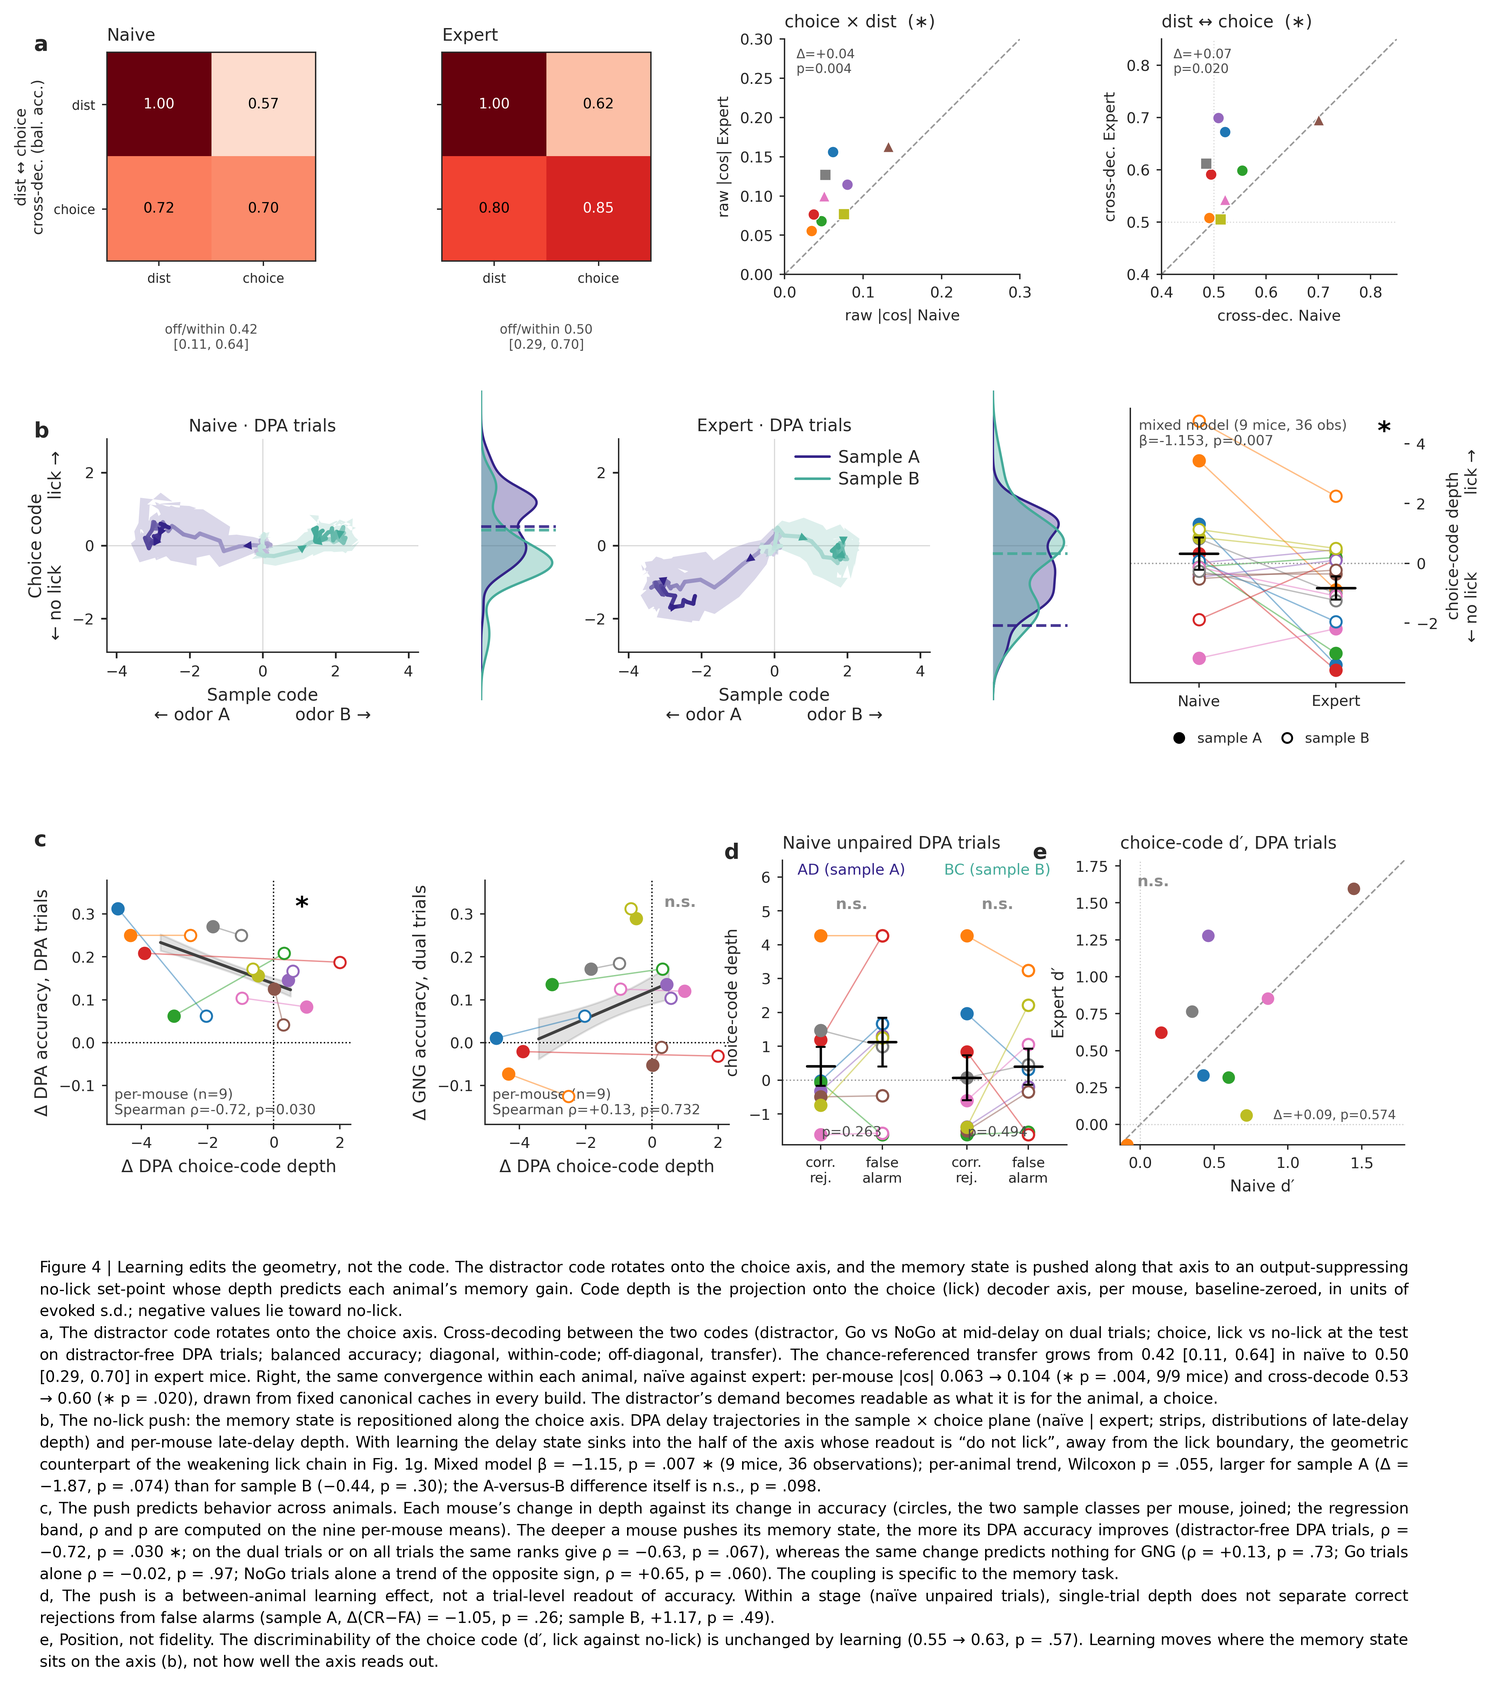
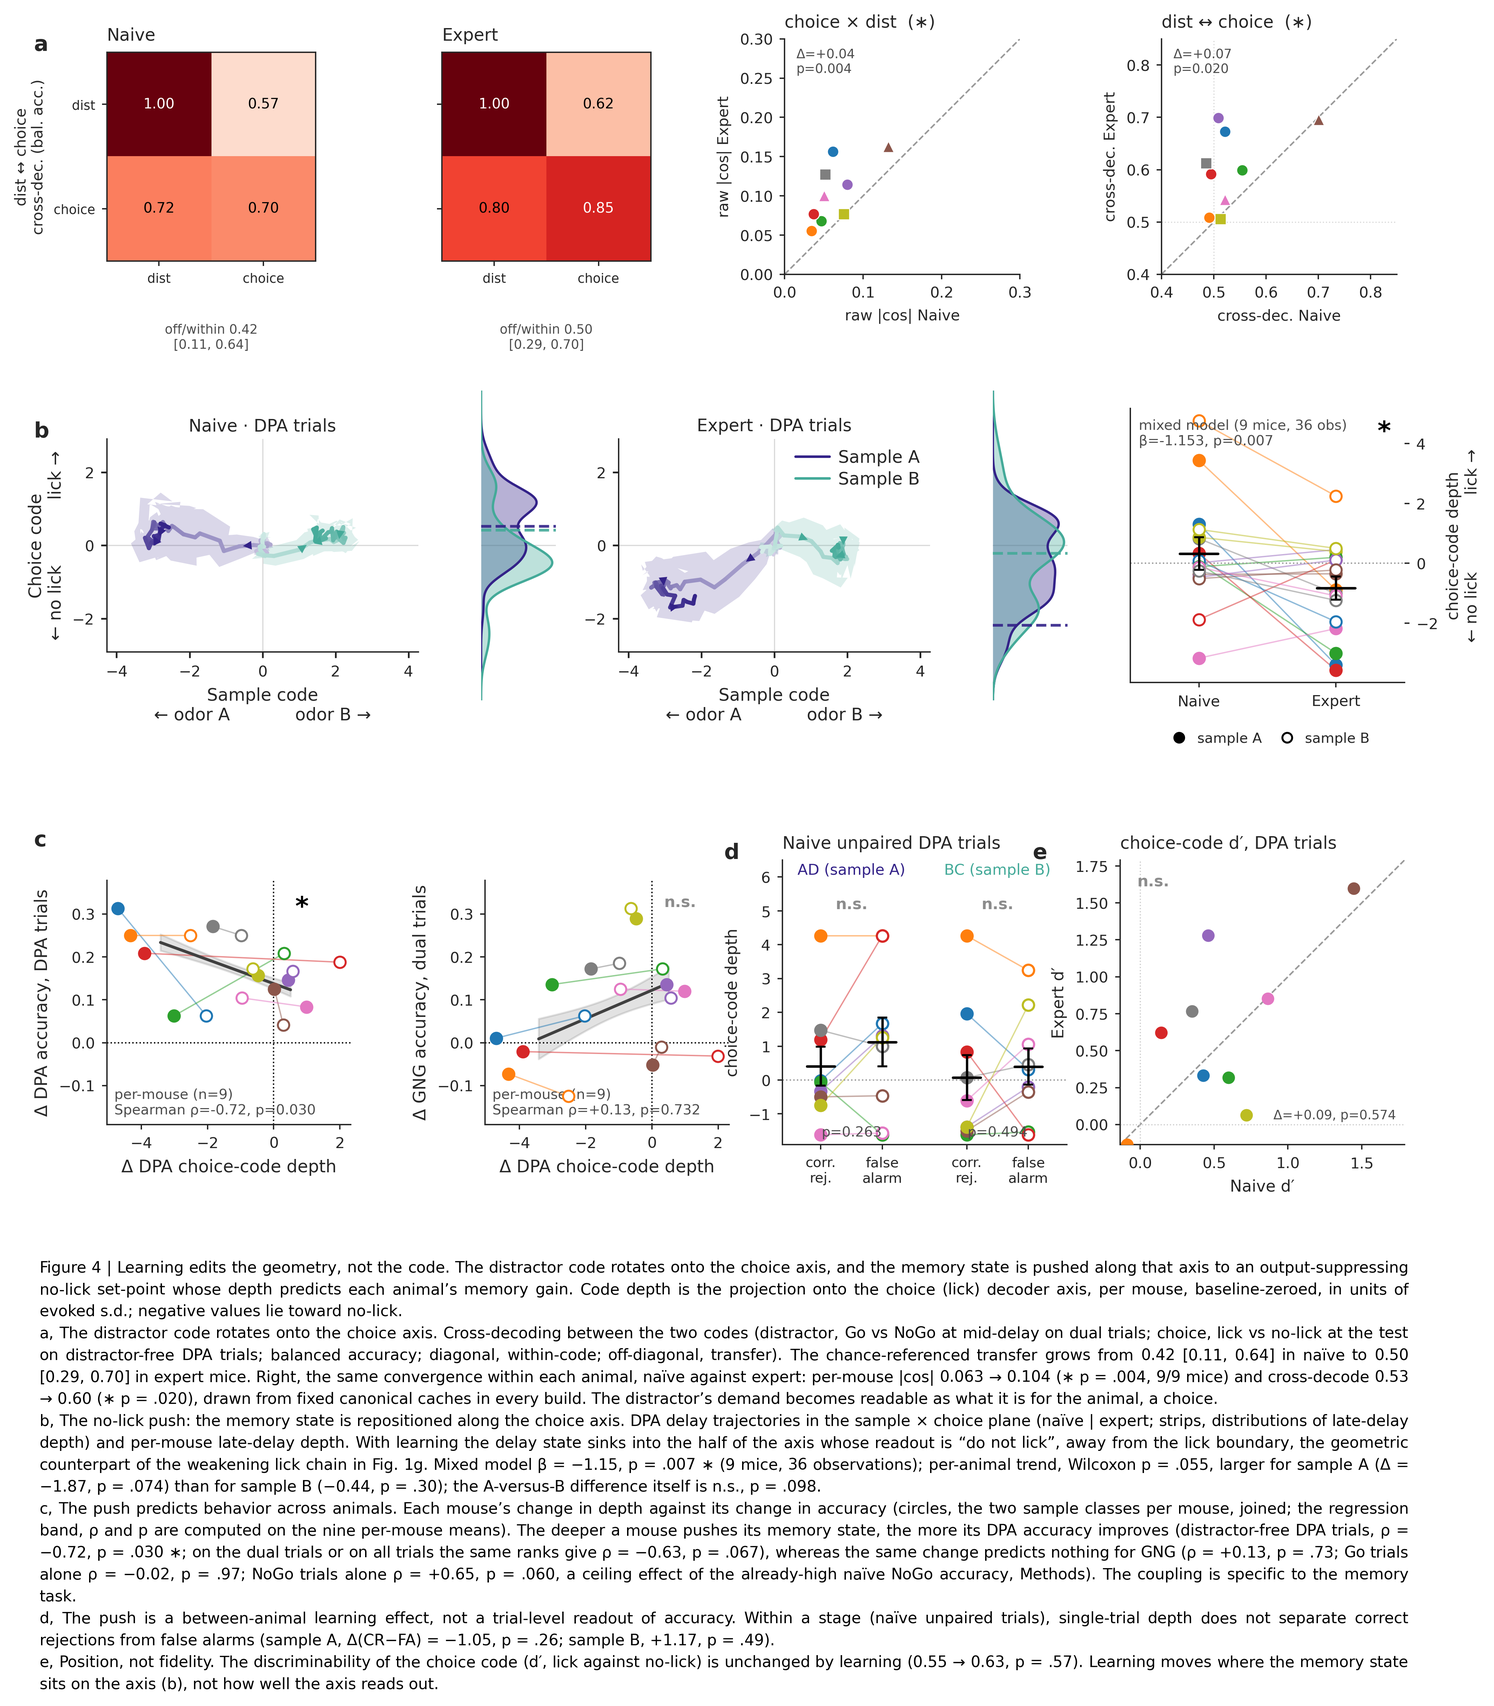
NoGo arm of the push coupling is a ceiling effect, not a cost; draft v12.24
Leon expected deeper push -> better NoGo accuracy. The raw dNoGo-vs-ddepth trend (rho +0.65, p .060)
is carried by the four deepest pushers already withholding on 82-95% of naive NoGo trials: naive NoGo
accuracy predicts the NoGo gain (rho -0.87, p .002), the partial rank correlation of the push with the
NoGo gain controlling for it is +0.27 (p .49), and depth and NoGo accuracy are unrelated at either
stage. New overlaps/exp_push_nogo_ceiling.py (three per-mouse scatters, gallery controls/). Section 4,
the Fig 4c legend and Methods now say so; the "possible cost, cannot be settled" wording is gone.
Docs, memory and share pages updated.

Claude-Session: https://claude.ai/code/session_01PzGzWMKHPqqyp4poHedntF

diff --git a/overlaps/exp_push_nogo_ceiling.py b/overlaps/exp_push_nogo_ceiling.py
@@ -1,0 +1,66 @@
+"""exp_push_nogo_ceiling.py — ΔNoGo accuracy against the no-lick push (Leon, 2026-09-09: "delta nogo vs delta depth").
+Three per-mouse scatters (n = 9): (a) ΔNoGo accuracy vs Δdepth (the +0.6 'opposite-sign' trend of Fig 4c's NoGo arm);
+(b) ΔNoGo vs NAIVE NoGo accuracy (the ceiling: mice already withholding well cannot gain); (c) Δdepth vs naive NoGo
+accuracy (the deep pushers are the good naive withholders). Prints the partial rank correlation of Δdepth with ΔNoGo
+controlling for naive NoGo accuracy. Same estimator/units as Fig 4c (main_panels: per-mouse means, DPA delay depth).
+Run from overlaps/:  /home/leon/mambaforge/envs/dual/bin/python exp_push_nogo_ceiling.py"""
+import sys, os
+sys.path.insert(0, '/home/leon/dual/'); os.chdir('/home/leon/dual/overlaps'); sys.path.insert(0, '/home/leon/dual/overlaps')
+import numpy as np, pandas as pd
+from scipy.stats import spearmanr, pearsonr, rankdata
+import main_panels as MP
+import seaborn as sns, matplotlib.pyplot as plt
+sns.set_context('notebook'); sns.set_style('ticks')
+plt.rcParams.update({'figure.dpi': 150, 'savefig.dpi': 400, 'font.family': 'sans-serif',
+                     'font.sans-serif': ['Arial', 'Helvetica', 'DejaVu Sans'], 'axes.labelsize': 8, 'axes.titlesize': 8,
+                     'xtick.labelsize': 7, 'ytick.labelsize': 7, 'legend.fontsize': 6.5, 'axes.spines.top': False,
+                     'axes.spines.right': False, 'svg.fonttype': 'none', 'axes.linewidth': 0.7, 'lines.linewidth': 1.3,
+                     'xtick.major.size': 2.5, 'ytick.major.size': 2.5, 'xtick.major.width': 0.7, 'ytick.major.width': 0.7})
+TITLE_FS = 8
+MCOL = dict(zip(MP.ALL_MICE, sns.color_palette('tab10')))
+
+y = MP.y
+nogo = [t for t in y.tasks.unique() if 'nogo' in t.lower()][0]
+rows = []
+for mo in MP.ALL_MICE:
+    dd = np.nanmean([MP.delta_choice_sample[(mo, c)] for c, _ in MP.D_SAMPLE_CLASSES])
+    acc = {}
+    for st in MP.STAGES:
+        m = (y.mouse == mo) & (y.stage == st) & MP.idx_laser & MP.idx_choice & (y.tasks == nogo)
+        acc[st] = y.loc[m, 'odr_perf'].mean()
+    rows.append(dict(mouse=mo, ddepth=dd, nogo_N=acc['Naive'], nogo_E=acc['Expert'], dNoGo=acc['Expert'] - acc['Naive']))
+df = pd.DataFrame(rows)
+
+
+def partial_rank(a, b, c):
+    ra, rb, rc = rankdata(a), rankdata(b), rankdata(c)
+    ea = ra - np.polyval(np.polyfit(rc, ra, 1), rc); eb = rb - np.polyval(np.polyfit(rc, rb, 1), rc)
+    return pearsonr(ea, eb)
+
+
+fig, axes = plt.subplots(1, 3, figsize=(8.4, 2.9))
+specs = [('ddepth', 'dNoGo', 'Δ DPA choice-code depth (Exp−Naive)', 'Δ NoGo accuracy (Exp−Naive)', 'ΔNoGo vs push'),
+         ('nogo_N', 'dNoGo', 'naive NoGo accuracy', 'Δ NoGo accuracy (Exp−Naive)', 'the ceiling'),
+         ('nogo_N', 'ddepth', 'naive NoGo accuracy', 'Δ DPA choice-code depth (Exp−Naive)', 'deep pushers withheld well already')]
+for ax, (xk, yk, xl, yl, ttl) in zip(axes, specs):
+    for _, r in df.iterrows():
+        ax.scatter(r[xk], r[yk], s=34, color=MCOL[r['mouse']], edgecolors='w', linewidths=0.5, zorder=3)
+    rho, p = spearmanr(df[xk], df[yk])
+    ax.text(0.03, 0.03, f'n=9 Spearman\nρ={rho:+.2f}, p={p:.3f}', transform=ax.transAxes, va='bottom', fontsize=6.5, color='0.3')
+    ax.axhline(0, ls=':', color='k', lw=0.7)
+    if xk == 'ddepth':
+        ax.axvline(0, ls=':', color='k', lw=0.7)
+    ax.set_xlabel(xl); ax.set_ylabel(yl); ax.set_title(ttl, loc='left', fontsize=TITLE_FS)
+rp, pp = partial_rank(df.ddepth, df.dNoGo, df.nogo_N)
+fig.suptitle(f'ΔNoGo vs Δdepth is a ceiling effect: partial rank correlation Δdepth ~ ΔNoGo | naive NoGo accuracy  r={rp:+.2f}, p={pp:.2f}',
+             fontsize=8, y=1.02)
+fig.tight_layout()
+OUT = 'figures/overlaps/controls'
+os.makedirs(f'{OUT}/png', exist_ok=True); os.makedirs(f'{OUT}/svg', exist_ok=True)
+for ext in ['png', 'svg']:
+    fig.savefig(f'{OUT}/{ext}/push_nogo_ceiling.{ext}', bbox_inches='tight')
+print(df.sort_values('ddepth').round(3).to_string(index=False))
+for a, b, lab in [('ddepth', 'dNoGo', 'Δdepth vs ΔNoGo'), ('nogo_N', 'dNoGo', 'naive NoGo vs ΔNoGo'), ('nogo_N', 'ddepth', 'naive NoGo vs Δdepth')]:
+    print(f'{lab:22s} Spearman ρ={spearmanr(df[a], df[b])[0]:+.2f} p={spearmanr(df[a], df[b])[1]:.3f}')
+print(f'partial rank Δdepth ~ ΔNoGo | naive NoGo: r={rp:+.2f} p={pp:.3f}')
+print('saved', os.path.abspath(f'{OUT}/png/push_nogo_ceiling.png'))

diff --git a/overlaps/fig_overlaps_main_native.py b/overlaps/fig_overlaps_main_native.py
@@ -364,7 +364,7 @@ if __name__ == '__main__':
         'ρ and p are computed on the nine per-mouse means). The deeper a mouse pushes its memory '
         'state, the more its DPA accuracy improves (distractor-free DPA trials, ρ = −0.72, p = .030 ∗; on the dual trials '
         'or on all trials the same ranks give ρ = −0.63, p = .067), whereas the same change '
-        'predicts nothing for GNG (ρ = +0.13, p = .73; Go trials alone ρ = −0.02, p = .97; NoGo trials alone a trend of the opposite sign, ρ = +0.65, p = .060). The coupling is specific to the memory task.',
+        'predicts nothing for GNG (ρ = +0.13, p = .73; Go trials alone ρ = −0.02, p = .97; NoGo trials alone ρ = +0.65, p = .060, a ceiling effect of the already-high naïve NoGo accuracy, Methods). The coupling is specific to the memory task.',
         'd, The push is a between-animal learning effect, not a trial-level readout of accuracy. '
         'Within a stage (naïve unpaired trials), single-trial depth does not separate correct '
         'rejections from false alarms (sample A, Δ(CR−FA) = −1.05, p = .26; sample B, +1.17, p = '

diff --git a/docs/paper/results_draft.md b/docs/paper/results_draft.md
@@ -1,5 +1,7 @@
 # Compositional learning by geometric editing — main paper (draft v12)
 
+> **v12.24 (2026-09-09): NoGo ARM OF THE COUPLING = CEILING EFFECT, NOT A COST** (Leon: "I would have expected a negative correlation"). New `overlaps/exp_push_nogo_ceiling.py` (gallery controls/push_nogo_ceiling.png): the ρ = +0.65 ΔNoGo-vs-Δdepth trend is carried by the deep pushers having already withheld correctly on 82–95% of naïve NoGo trials (naïve NoGo accuracy vs ΔNoGo ρ = −0.87, p = .002; partial rank correlation of Δdepth with ΔNoGo controlling for it +0.27, p = .49; depth and NoGo accuracy unrelated at either stage, ρ +0.30 / +0.13; relative gain ρ +0.22, Δlogit +0.35). §4, the Fig. 4c legend and Methods now say so; the "possible cost, cannot be settled" wording is gone.
+
 > **v12.23 (2026-09-09): Fig. 4 TRIAL SETS LABELLED IN THE PANELS** (Leon): b "Naive/Expert · DPA trials", c "Δ DPA accuracy, DPA trials" / "Δ GNG accuracy, dual trials", d "Naive unpaired DPA trials", e "choice-code d′, DPA trials". The DPA arm of c was tried on the dual trials and on all trials (Leon's question): identical ranks, ρ = −0.63, p = .067 in both, against −0.72 / .030 on the distractor-free trials; Leon kept the DPA trials and the companion numbers are now stated in §4 and the legend (`--dualperf` draws the dual-trial arm; `exp_push_nogo_coupling.py` prints every slice).
 
 > **v12.22 (2026-09-08): Fig. 4a BACK ON THE DISTRACTOR-FREE CHOICE AXIS (Leon, option 2).** The dual-trial version of Fig. 4a (v12.21) turned out heterogeneous across animals for real (Go/NoGo-balanced lick classes changed nothing: |cos| p = .30, cross-decode p = .25; all trials: .098/.055), so the choice axis for the alignment test is fitted on the DPA trials, where its alignment with the Go/NoGo axis cannot be inherited from distractor-evoked activity in the same trials. Numbers: pooled transfer 0.42 [0.11, 0.64] → 0.50 [0.29, 0.70]; per-mouse |cos| 0.063 → 0.104 (9/9, p = .004); cross-decode 0.53 → 0.60 (7/9, p = .020). The dual-trial result is disclosed in Methods; flags `--dualact` / `--allact` / `--strat` keep the alternatives reproducible. Fig. 3c–e keep their all-trial choice classes.
@@ -681,7 +683,7 @@ between them would displace A and B in opposite directions, which only 3/9 mice 
 therefore report the repositioning itself and make no claim about sample specificity.
 
 The size of the push predicted behavior across animals. The further a mouse had moved its delay
-state toward no-lick, the more its DPA accuracy had improved (Fig. 4c, left; per-mouse Spearman ρ = −0.72, p = 0.030, n = 9, on the distractor-free DPA trials; on the dual trials, where the cost is paid, or on all trials the same ranks give ρ = −0.63, p = 0.067), whereas the same change bore no relationship to GNG accuracy on the dual trials (Fig. 4c, right; ρ = +0.13, p = 0.73). Split by trial type, Go trials alone were null (ρ = −0.02, p = 0.97), and NoGo trials alone, the arm of the distractor task that improves with learning, showed a trend of the opposite sign (ρ = +0.65, p = 0.060): if anything, the animals that pushed deepest gained least on NoGo trials. The coupling is therefore specific to memory performance; whether it carries a cost for the distractor task cannot be settled at this n. It held under every normalization we tried (ρ = −0.67 to −0.80, all p ≤ 0.05), with mixed resampling support (bootstrap CI excluding 0; permutation p = 0.039; significant in 4 of 9 leave-one-mouse-out folds, ρ = −0.64 to −0.81). It tracked the fall in false alarms rather than the hit rate (per-mouse Spearman of the change in depth against the change in false-alarm rate ρ = +0.59, p = 0.097; against the change in hit rate ρ = +0.11, p = 0.78), the route by which the delay lick interfered in the first place (Fig. 1g), although neither arm was significant on its own. A signal-detection decomposition could not tell a gain in sensitivity from a shift in criterion at this n (Δd′ ρ = −0.37, p = 0.33; Δc ρ = −0.30, p = 0.43), but a general shift toward withholding is not what the coupling measures, since the NoGo trials on which withholding also improves show no coupling of the same sign. It did not depend on where the animals started (partial correlation controlling for naïve accuracy, r = −0.70, p = 0.038), and it is a relationship between changes: within the expert stage alone, depth and accuracy were not correlated across animals (ρ = −0.25, p = 0.52). Two dependences are disclosed. The coupling requires the axis to be fitted per stage and
+state toward no-lick, the more its DPA accuracy had improved (Fig. 4c, left; per-mouse Spearman ρ = −0.72, p = 0.030, n = 9, on the distractor-free DPA trials; on the dual trials, where the cost is paid, or on all trials the same ranks give ρ = −0.63, p = 0.067), whereas the same change bore no relationship to GNG accuracy on the dual trials (Fig. 4c, right; ρ = +0.13, p = 0.73). Split by trial type, Go trials alone were null (ρ = −0.02, p = 0.97), and the positive trend on NoGo trials alone (ρ = +0.65, p = 0.060) was a ceiling effect: the animals that pushed deepest were already withholding correctly on 82–95% of their naïve NoGo trials and had little room to gain (naïve NoGo accuracy predicted the NoGo gain, ρ = −0.87, p = 0.002; with it controlled, the partial rank correlation of the push with the NoGo gain was +0.27, p = 0.49, and depth and NoGo accuracy were unrelated at either stage). The coupling is therefore specific to memory performance, at no detectable cost or benefit to the distractor task. It held under every normalization we tried (ρ = −0.67 to −0.80, all p ≤ 0.05), with mixed resampling support (bootstrap CI excluding 0; permutation p = 0.039; significant in 4 of 9 leave-one-mouse-out folds, ρ = −0.64 to −0.81). It tracked the fall in false alarms rather than the hit rate (per-mouse Spearman of the change in depth against the change in false-alarm rate ρ = +0.59, p = 0.097; against the change in hit rate ρ = +0.11, p = 0.78), the route by which the delay lick interfered in the first place (Fig. 1g), although neither arm was significant on its own. A signal-detection decomposition could not tell a gain in sensitivity from a shift in criterion at this n (Δd′ ρ = −0.37, p = 0.33; Δc ρ = −0.30, p = 0.43), but a general shift toward withholding is not what the coupling measures, since NoGo withholding, largely in place before dual task training, shows no coupling once its ceiling is accounted for. It did not depend on where the animals started (partial correlation controlling for naïve accuracy, r = −0.70, p = 0.038), and it is a relationship between changes: within the expert stage alone, depth and accuracy were not correlated across animals (ρ = −0.25, p = 0.52). Two dependences are disclosed. The coupling requires the axis to be fitted per stage and
 read with the logistic decoder (on a single axis shared by both stages it weakens to a trend, ρ = −0.63, p = 0.067, and under L1-regularized or linear-discriminant decoders it is not significant, ρ = −0.63 and −0.62; Extended Data Figs 5b and 6c), and it does not replicate on the demixed-PCA axis (Methods).
 
 Two controls sharpen the interpretation. First, the push is a property of animals rather than
@@ -1011,7 +1013,7 @@ Expert − Naive differences. The depth↔accuracy coupling (Fig. 4c) is a betwe
 correlation over the nine per-mouse means of Δdepth and Δaccuracy (Expert − Naive) — the fitted
 unit is the animal — with robustness established across all six axis × normalization builds and
 a resampling battery (jackknife, bootstrap, permutation; ED 5); the GNG arm was also split into
-Go-only and NoGo-only accuracy changes (`exp_push_nogo_coupling.py`; both null). One limit is disclosed: the
+Go-only and NoGo-only accuracy changes (`exp_push_nogo_coupling.py`); the NoGo arm's positive trend is a ceiling effect (`exp_push_nogo_ceiling.py`: naïve NoGo accuracy predicts the NoGo gain, ρ = −0.87, p = 0.002; the partial rank correlation of Δdepth with ΔNoGo controlling for it is +0.27, p = 0.49; a relative-gain or logit measure of the NoGo change is likewise unrelated to the push, and depth and NoGo accuracy are unrelated at either stage). One limit is disclosed: the
 coupling does not replicate when depth is instead measured on the dPCA-derived tasks axis
 (r = +0.46, p = 0.21). The FA/CR control (Fig. 4d) is
 a paired t-test on per-mouse median depths of correct-rejection vs false-alarm trials (naïve
@@ -1194,7 +1196,7 @@ of the weakening lick chain in Fig. 1g. Mixed model β = −1.15, p = .007 ∗ (
 
 c, The push predicts behavior across animals. Each mouse’s change in depth against its change in
 accuracy (circles, the two sample classes per mouse, joined; the regression band, ρ and p are
-computed on the nine per-mouse means). The deeper a mouse pushes its memory state, the more its DPA accuracy improves (distractor-free DPA trials, ρ = −0.72, p = .030 ∗; on the dual trials or on all trials the same ranks give ρ = −0.63, p = .067), whereas the same change predicts nothing for GNG (ρ = +0.13, p = .73; Go trials alone ρ = −0.02, p = .97; NoGo trials alone a trend of the opposite sign, ρ = +0.65, p = .060). The coupling is specific to the memory task.
+computed on the nine per-mouse means). The deeper a mouse pushes its memory state, the more its DPA accuracy improves (distractor-free DPA trials, ρ = −0.72, p = .030 ∗; on the dual trials or on all trials the same ranks give ρ = −0.63, p = .067), whereas the same change predicts nothing for GNG (ρ = +0.13, p = .73; Go trials alone ρ = −0.02, p = .97; NoGo trials alone ρ = +0.65, p = .060, a ceiling effect of the already-high naïve NoGo accuracy, Methods). The coupling is specific to the memory task.
 
 d, The push is a between-animal learning effect, not a trial-level readout of accuracy. Within a
 stage (naïve unpaired trials), single-trial depth does not separate correct rejections from false

diff --git a/docs/overlaps/overview.md b/docs/overlaps/overview.md
@@ -3,6 +3,7 @@
 > **CANONICAL AXIS WINDOWS since 2026-09-08 (Leon: "same windows for all panels").** Sample and distractor decoder axes = bins **36–38** (6.0–6.5 s, post-distractor pre-cue); choice and test axes = bins **54–62** (9.0–10.5 s, test onset → 0.5 s after test offset) — the SAME bin indices in the overlaps (CCGD) and pseudo-population pipelines. Every "57–62 / 16–47 / 58–83 / 33–38 / 57–65 / 45–59 (opto depth)" axis window quoted below is the pre-flip convention (reachable with `--legacyaxes`); read-out windows (mid-delay 33–38 or 36–38, late delay 45–53 or 48–53, Fig 3b decision read 60–66) are unchanged. Numbers under the new axes: Fig 4 push β = −1.15 p = .007, coupling ρ = −0.72 p = .030 (norm battery all p ≤ .05, leave-one-out 4/9); Fig 3c choice out-vs-full a trend (p = .098); Fig 3e T/W 0.90 / 0.72; Fig 6 ΔGNG clustered p = .009. Variant table (windows A–E) and the flip recipe: memory `project_axis_windows.md`; text audit = draft v12.20 banner in `docs/paper/results_draft.md`.
 
 > **2026-09-08 (later) — choice-decoder TRIAL SETS.** Fig 3c–e per-mouse choice classes (lick vs no-lick at the test) now pool ALL trial types (`--dpachoice` = former DPA-only); Fig 4a's choice side stays on the distractor-free DPA trials (Leon, option 2, after the dual-trial version proved heterogeneous across animals even with Go/NoGo-balanced classes; `--dualact` / `--allact` / `--strat` reproduce the alternatives). Fig 3c choice brackets ∗ (p = .012); Fig 4a per-mouse |cos| 0.063 → 0.104 (9/9, p = .004), cross-decode 0.53 → 0.60 (p = .020). Details: memory `project_dimensionality.md` / `project_overlaps_main_native.md`; draft banner v12.21.
+> **2026-09-09 — Fig 4c arms.** Panel c keeps the distractor-free DPA arm (dual / all trials give ρ −0.63 p .067, stated in the text; `--dualperf`); the NoGo-only arm's positive trend is a CEILING EFFECT (`exp_push_nogo_ceiling.py`: naïve NoGo predicts ΔNoGo ρ −0.87; partial corr with the push +0.27 p .49) — no cost, no benefit. Trial sets are named in the Fig 4 panel titles.
 
 > **Fig. 3 REPLACED (2026-08-30): the adopted main Fig. 3 is now `pca/fig_manifold_main.py`**
 > (`pca/figures/pseudo/dimensionality/png/fig_manifold_main.png`, + `_nopca` robustness variant) —
